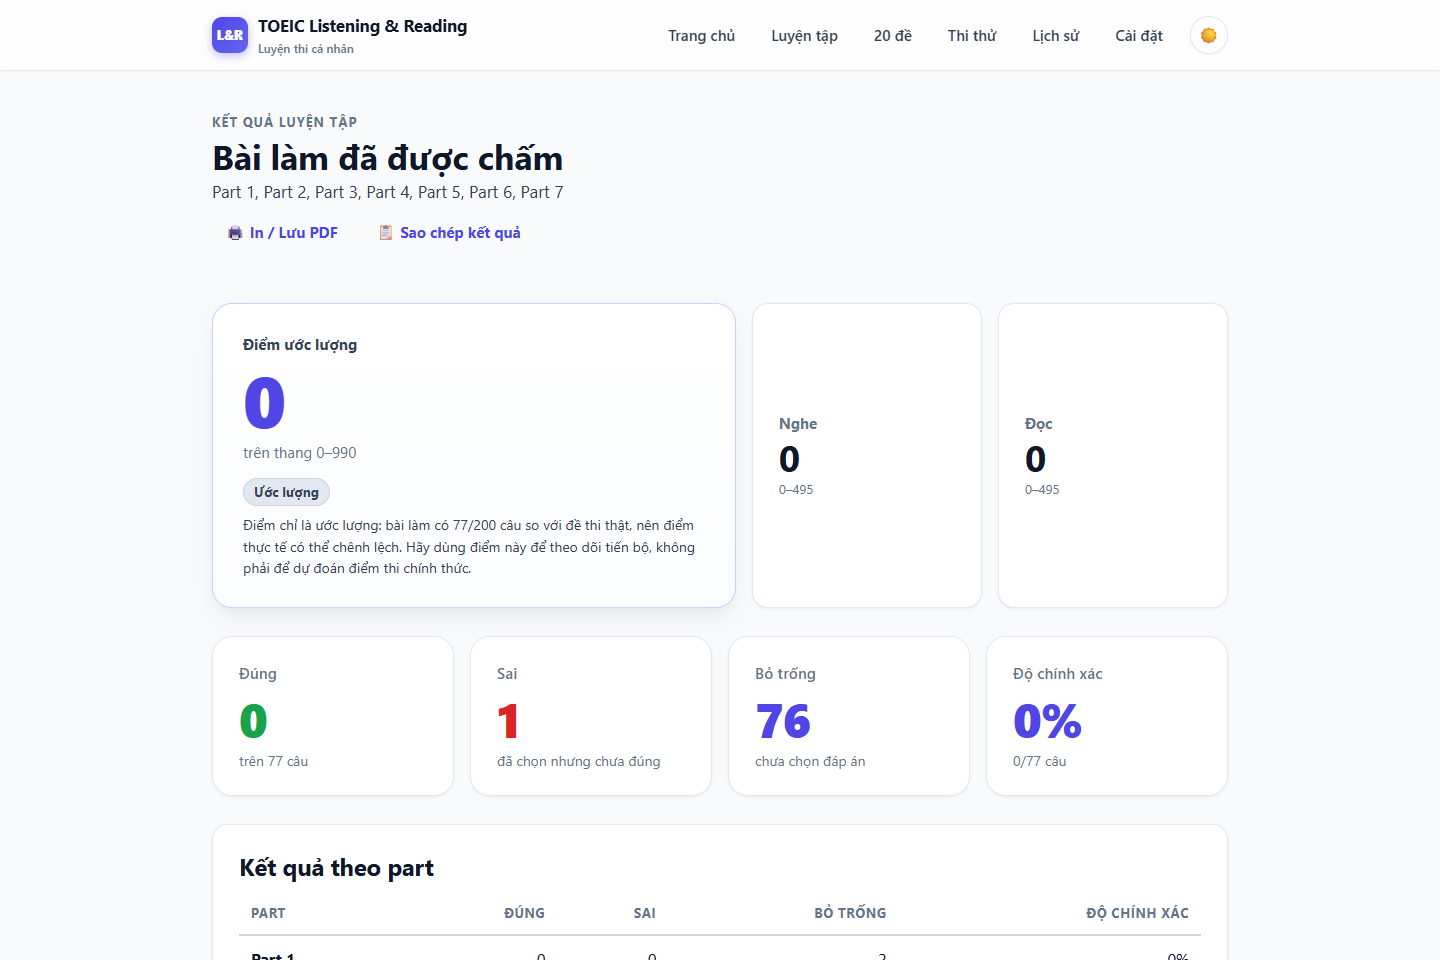
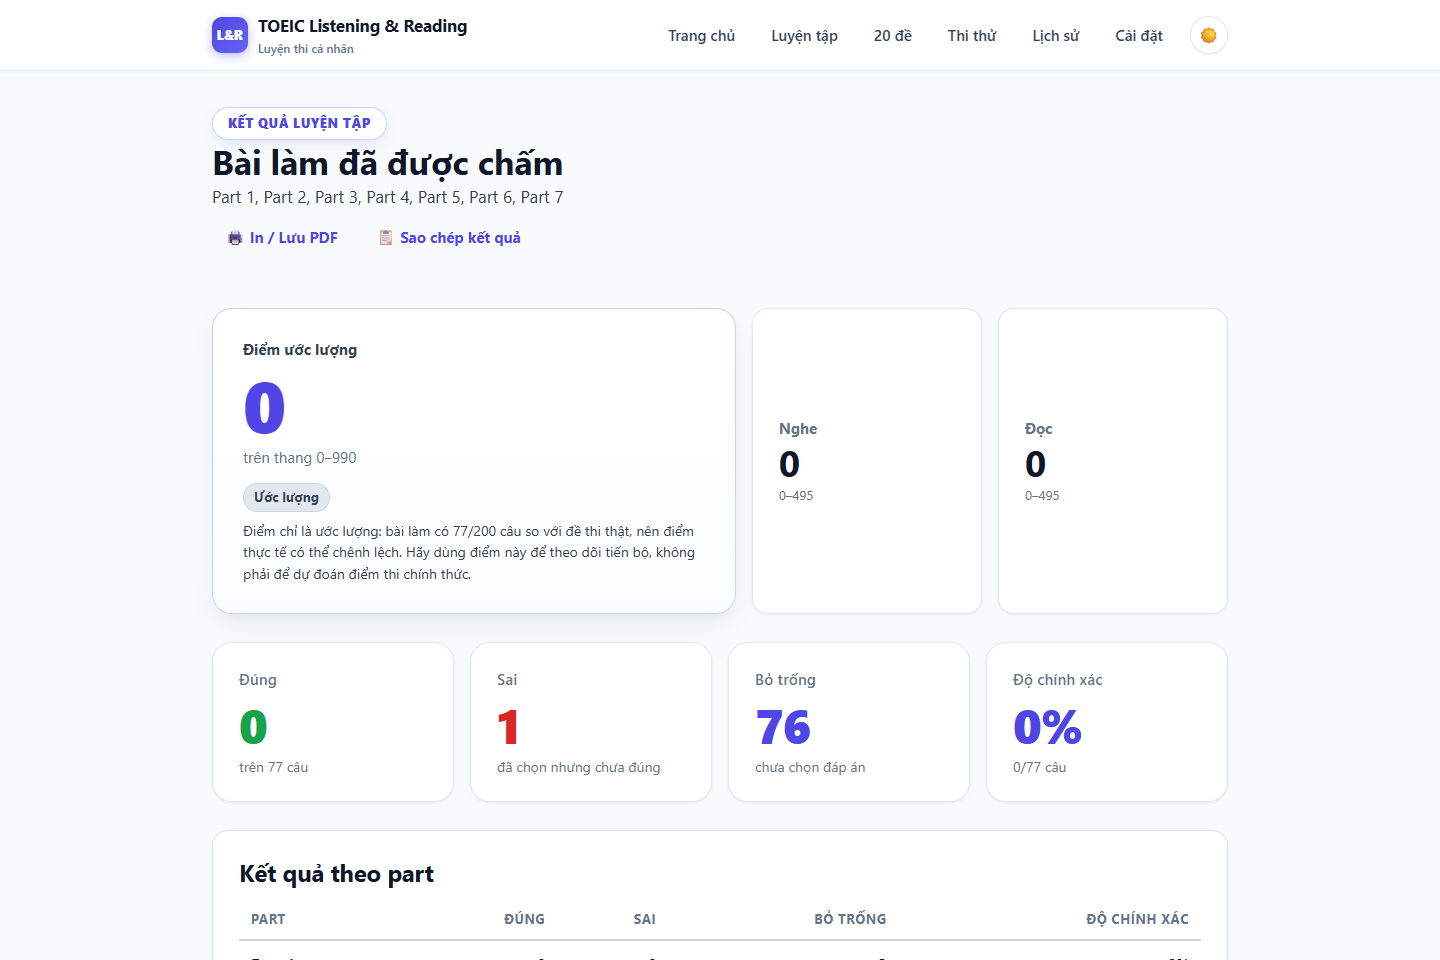
feat(ui): tich hop Lucian UX/UI Prompt - shining pill, copy sweep check, gradient audio player va interactive cards

diff --git a/src/styles/pages-home.css b/src/styles/pages-home.css
@@ -148,37 +148,45 @@
 }
 
 .feature-card {
+  position: relative;
   display: flex;
   flex-direction: column;
-  gap: 10px;
-  padding: 22px 24px;
+  gap: 12px;
+  padding: 24px 26px;
   border: 1px solid var(--line);
-  border-radius: var(--radius-lg);
+  border-radius: var(--radius-xl);
   background: var(--surface);
   box-shadow: var(--shadow-sm);
-  transition: all 0.22s cubic-bezier(0.16, 1, 0.3, 1);
+  transition: all 0.25s var(--ux-spring);
+  overflow: hidden;
 }
 
 .feature-card:hover {
-  transform: translateY(-2px);
-  box-shadow: var(--shadow-md);
-  border-color: var(--line-strong);
+  transform: translateY(-3px) scale(1.01);
+  box-shadow: 0 12px 30px -8px var(--shadow-md), 0 0 0 1px var(--primary-line);
+  border-color: var(--primary);
 }
 
 .feature-card__icon {
   display: grid;
   place-items: center;
-  width: 44px;
-  height: 44px;
-  border-radius: 12px;
-  background: var(--primary-soft);
-  font-size: 1.35rem;
-  box-shadow: 0 2px 8px rgba(79, 70, 229, 0.12);
+  width: 48px;
+  height: 48px;
+  border-radius: 14px;
+  background: var(--ux-grad);
+  color: #ffffff;
+  font-size: 1.45rem;
+  box-shadow: 0 4px 14px rgba(106, 87, 242, 0.3);
+  transition: transform 0.3s var(--ux-spring);
+}
+
+.feature-card:hover .feature-card__icon {
+  transform: scale(1.1) rotate(6deg);
 }
 
 .feature-card__title {
   margin: 0;
-  font-size: 1.1rem;
+  font-size: 1.125rem;
   font-weight: 750;
   color: var(--ink);
 }
@@ -186,7 +194,7 @@
 .feature-card__desc {
   margin: 0;
   font-size: 0.9375rem;
-  line-height: 1.55;
+  line-height: 1.6;
   color: var(--ink-2);
 }
 

diff --git a/src/styles/layout.css b/src/styles/layout.css
@@ -201,12 +201,48 @@
   font-size: 1.0625rem;
 }
 
+/* ── Lucian UX/UI Prompt #252 · Shining Announcement Pill ── */
 .section-label {
+  position: relative;
+  display: inline-flex;
+  align-items: center;
+  gap: 8px;
+  width: fit-content;
+  padding: 6px 16px;
+  border-radius: 999px;
+  background: var(--surface);
+  box-shadow: inset 0 0 0 1px var(--primary-line), 0 4px 14px -4px rgba(79, 70, 229, 0.2);
+  color: var(--primary);
   font-size: 0.8125rem;
-  font-weight: 750;
-  letter-spacing: 0.08em;
+  font-weight: 800;
+  letter-spacing: 0.04em;
   text-transform: uppercase;
-  color: var(--muted);
+  overflow: hidden;
+  cursor: default;
+  transition: box-shadow 0.25s var(--ux-ease), transform 0.25s var(--ux-spring);
+}
+
+.section-label:hover {
+  transform: translateY(-1px);
+  box-shadow: inset 0 0 0 1.5px var(--primary), 0 8px 20px -6px rgba(79, 70, 229, 0.35);
+}
+
+.section-label::after {
+  content: "";
+  position: absolute;
+  top: 0;
+  bottom: 0;
+  width: 60px;
+  left: -80px;
+  background: linear-gradient(100deg, transparent, rgba(255, 255, 255, 0.8), transparent);
+  transform: skewX(-20deg);
+  pointer-events: none;
+  animation: lucianShine 3.5s infinite var(--ux-ease);
+}
+
+@keyframes lucianShine {
+  0%, 35% { left: -80px; }
+  65%, 100% { left: 140%; }
 }
 
 @media (max-width: 720px) {

diff --git a/src/styles/pages-partselect.css b/src/styles/pages-partselect.css
@@ -14,24 +14,29 @@
   margin-bottom: 8px;
 }
 
+/* ── Lucian UX/UI Prompt #015 · Plan Radio Cards Feel ── */
 .count-mode__option {
+  position: relative;
   display: flex;
   align-items: flex-start;
-  gap: 9px;
-  padding: 9px 11px;
-  margin-bottom: 6px;
-  border: 1px solid var(--line);
-  border-radius: var(--radius-sm);
-  background: var(--surface-2);
-  font-size: 0.875rem;
+  gap: 12px;
+  padding: 12px 14px;
+  margin-bottom: 8px;
+  border: 1.5px solid var(--line);
+  border-radius: var(--radius);
+  background: var(--surface);
+  font-size: 0.9375rem;
   line-height: 1.45;
   color: var(--ink-2);
   cursor: pointer;
-  transition: border-color 120ms ease, background-color 120ms ease;
+  transition: all 0.2s var(--ux-ease);
+  box-shadow: var(--shadow-sm);
 }
 
 .count-mode__option:hover {
-  border-color: var(--line-strong);
+  border-color: var(--primary-line);
+  background: var(--surface-2);
+  transform: translateY(-1px);
 }
 
 /* Khi được chọn: viền và nền đổi theo màu chính, kèm dấu hiệu rõ cho người
@@ -40,6 +45,7 @@
   border-color: var(--primary);
   background: var(--primary-soft);
   color: var(--ink);
+  box-shadow: 0 0 0 1.5px var(--primary), 0 4px 14px -4px rgba(79, 70, 229, 0.2);
 }
 
 .count-mode__option:has(input:focus-visible) {

diff --git a/src/styles/audio-player.css b/src/styles/audio-player.css
@@ -8,32 +8,44 @@
   align-items: center;
   gap: 12px;
   margin-top: 14px;
-  padding: 10px 14px;
+  padding: 10px 18px;
   background: var(--surface);
   border: 1px solid var(--line);
   border-radius: 999px;
-  box-shadow: var(--shadow-sm);
+  box-shadow: 0 2px 12px -2px rgba(15, 23, 42, 0.08);
+  transition: all 0.25s var(--ux-ease);
+}
+
+.audio-player:hover {
+  box-shadow: 0 4px 18px -2px rgba(15, 23, 42, 0.12);
+  border-color: var(--line-strong);
 }
 
 .audio-player__btn {
   flex: 0 0 auto;
   display: grid;
   place-items: center;
-  width: 40px;
-  height: 40px;
+  width: 42px;
+  height: 42px;
   padding: 0;
   border: 0;
   border-radius: 50%;
-  background: var(--primary);
-  color: var(--primary-ink);
-  font-size: 14px;
+  background: var(--ux-grad);
+  color: #ffffff;
+  font-size: 15px;
   line-height: 1;
   cursor: pointer;
-  transition: background-color 120ms ease;
+  transition: transform 0.2s var(--ux-spring), box-shadow 0.2s var(--ux-ease);
+  box-shadow: 0 3px 12px rgba(106, 87, 242, 0.35);
 }
 
 .audio-player__btn:hover:not(:disabled) {
-  background: var(--primary-hover);
+  transform: scale(1.08);
+  box-shadow: 0 5px 18px rgba(106, 87, 242, 0.5);
+}
+
+.audio-player__btn:active:not(:disabled) {
+  transform: scale(0.94);
 }
 
 .audio-player__btn:disabled {

diff --git a/src/styles/components.css b/src/styles/components.css
@@ -111,6 +111,40 @@
   border-color: var(--bad);
 }
 
+/* ── Lucian UX/UI Prompt #008 · Copy Button Sweep & Check Morph ── */
+.btn--copy {
+  position: relative;
+  overflow: hidden;
+  transition: all 0.25s var(--ux-ease);
+}
+
+.btn--copy.is-copied {
+  background: var(--ok-soft) !important;
+  color: var(--ok) !important;
+  border-color: var(--ok-line) !important;
+  box-shadow: 0 0 0 2px var(--ok-line) !important;
+}
+
+.btn--copy::after {
+  content: "";
+  position: absolute;
+  top: 0;
+  bottom: 0;
+  left: 0;
+  right: 0;
+  background: linear-gradient(90deg, transparent, rgba(255, 255, 255, 0.5), transparent);
+  transform: translateX(-100%);
+  pointer-events: none;
+}
+
+.btn--copy.is-copied::after {
+  animation: lucianCopySweep 0.65s var(--ux-ease);
+}
+
+@keyframes lucianCopySweep {
+  to { transform: translateX(100%); }
+}
+
 .btn--lg {
   min-height: 54px;
   padding: 14px 24px;

diff --git a/src/styles/tokens.css b/src/styles/tokens.css
@@ -65,6 +65,11 @@ html:root {
   --glass-bg: rgba(255, 255, 255, 0.88);
   --glass-border: rgba(226, 232, 240, 0.85);
 
+  /* Lucian UX/UI Prompt Motion & Gradients (lucianlabs.dev/uxui-prompt) */
+  --ux-grad: linear-gradient(120deg, #7b61ff, #3d8bff 55%, #1fb89a);
+  --ux-ease: cubic-bezier(0.2, 0.8, 0.2, 1);
+  --ux-spring: cubic-bezier(0.34, 1.45, 0.64, 1);
+
   --maxw: 1080px;
   --gutter: clamp(16px, 4vw, 32px);
 
@@ -120,4 +125,9 @@ html[data-theme='dark'] {
   --gradient-card: linear-gradient(180deg, #111827 0%, #151e30 100%);
   --glass-bg: rgba(17, 24, 39, 0.88);
   --glass-border: rgba(31, 41, 55, 0.85);
+
+  /* Lucian UX/UI Prompt Motion & Gradients (Dark) */
+  --ux-grad: linear-gradient(120deg, #b7a4ff, #7db4ff 55%, #a5f2d3);
+  --ux-ease: cubic-bezier(0.2, 0.8, 0.2, 1);
+  --ux-spring: cubic-bezier(0.34, 1.45, 0.64, 1);
 }

diff --git a/src/ui/ResultPage.tsx b/src/ui/ResultPage.tsx
@@ -178,7 +178,7 @@ export function ResultPage() {
           </button>
           <button
             type="button"
-            className="btn btn--sm btn--ghost"
+            className={`btn btn--sm ${copied ? 'btn--copy is-copied' : 'btn--ghost'}`}
             data-testid="copy-result"
             onClick={handleCopyResult}
             title="Sao chép tóm tắt kết quả vào bộ nhớ tạm"
